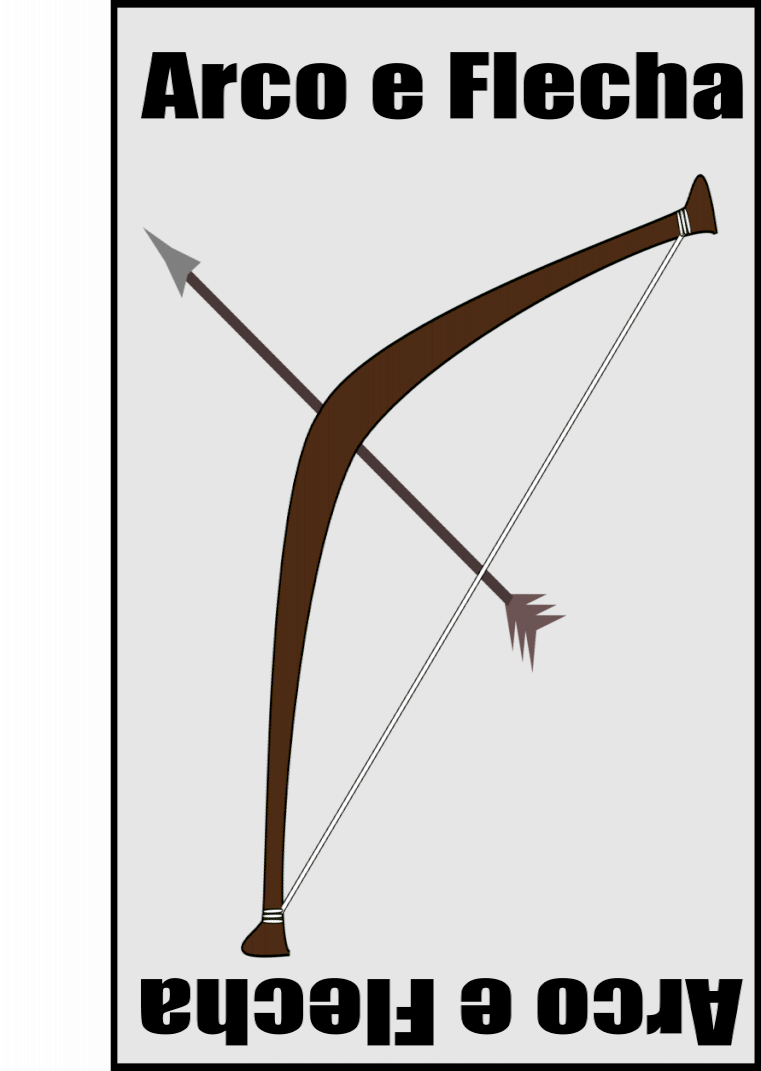
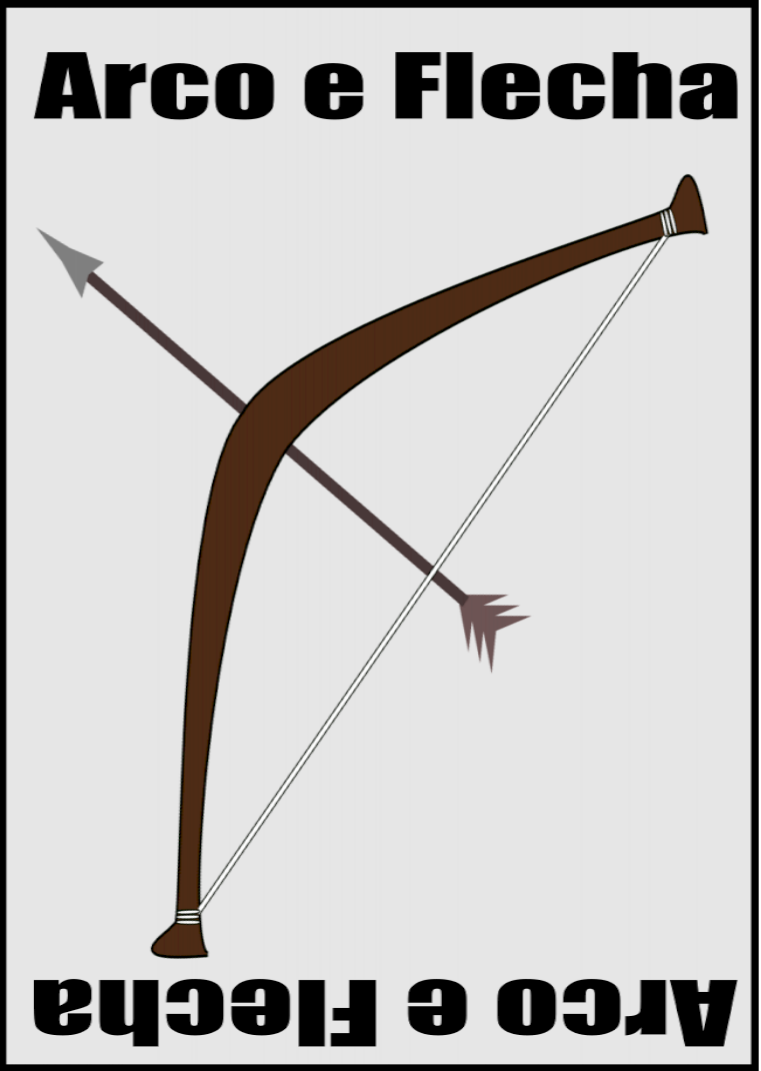
Alterado css das cartas
Ajustado tamanho da carta arco e mudado a disposição do estilo das cartas na mesa

diff --git a/src/app/home/home.page.scss b/src/app/home/home.page.scss
@@ -1,10 +1,10 @@
 
 #container {
-  width: auto;
-  height: auto;
+  width: 840;
+  height: 720;
   background-image: url("/assets/bg.jpg");
   background-repeat: no-repeat;
-background-position: center;
+  background-position: center;
   
 }
 
@@ -16,7 +16,7 @@ background-position: center;
 #container p {
   font-size: 16px;
   line-height: 22px;
-  color: #8c8c8c;
+  color: #faf5f5;
   margin: 0;
 }
 
@@ -31,6 +31,7 @@ background-position: center;
 
   width: auto;
   text-align: center;
+  
 }
 
 
@@ -44,6 +45,7 @@ background-position: center;
   grid-template-rows: repeat(4, 1fr);
   grid-gap: 10px;
   text-align: center;
+  
 }
 
 #container .mesa .monte {
@@ -53,6 +55,7 @@ background-position: center;
   width: 90%;
   text-align: center;
   justify-content: center;
+  color: beige;
 
 }
 
@@ -63,20 +66,21 @@ background-position: center;
   width: 90%;
   text-align:center;
   justify-content: center;
+  color: beige;
 }
 
 #container .mesa .minha-mao {
   grid-column: 4/7;
   grid-row: 4;
-  width: auto;
+  width: 100%;
   display: flex;
   justify-content: center;
 }
 #container .mesa .bot1 {
   grid-column: 1;
-  grid-row: 1 / 4;
-  width: 80%;
-  height: 50%;
+  grid-row: 2 / 4;
+  width: 90%;
+  height: 60%;
   justify-content: center;
 }
 
@@ -99,9 +103,17 @@ background-position: center;
   padding: 1px;
   font-size: 1rem;
   text-align: center;
-  width: 120px;
-  height: 60px;
+  width: 300px;
+  height: 70px;
 }
+
+#container .minha-mao div:hover {
+ 
+  box-shadow:1px 1px 10px rgba($color: #f0ecec, $alpha: 1.0)
+  
+}
+
+
 #container .bot1 div {
 
   transform: rotate(90deg);
@@ -109,6 +121,6 @@ background-position: center;
   font-size: 1rem;
   text-align: center;
   width: 50px;
-  height: 50px;
-  margin-left: 20px;
+  height: 35px;
+  margin-left: 30px;
 }

diff --git a/src/app/home/home.page.ts b/src/app/home/home.page.ts
@@ -62,7 +62,8 @@ export class HomePage {
     img.setAttribute('src', `/assets/cards/${carta.imagem}`)
     // img.setAttribute('width', '50%')
     // img.setAttribute('height', '50%')
-    img.style.margin = '5px'
+    img.style.maxWidth='160%'
+    img.style.width='90px'
 
     return img
   }
